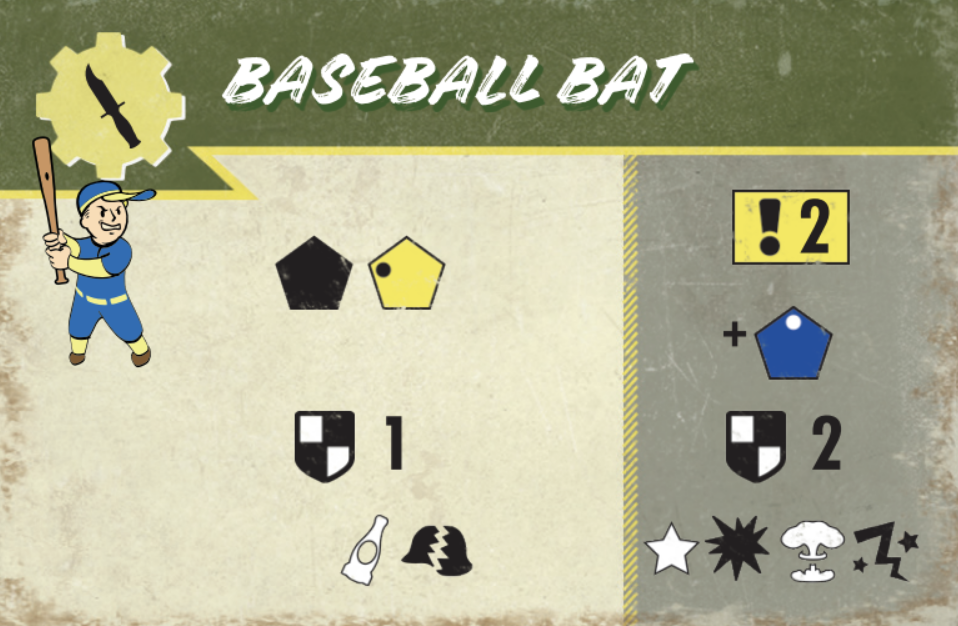
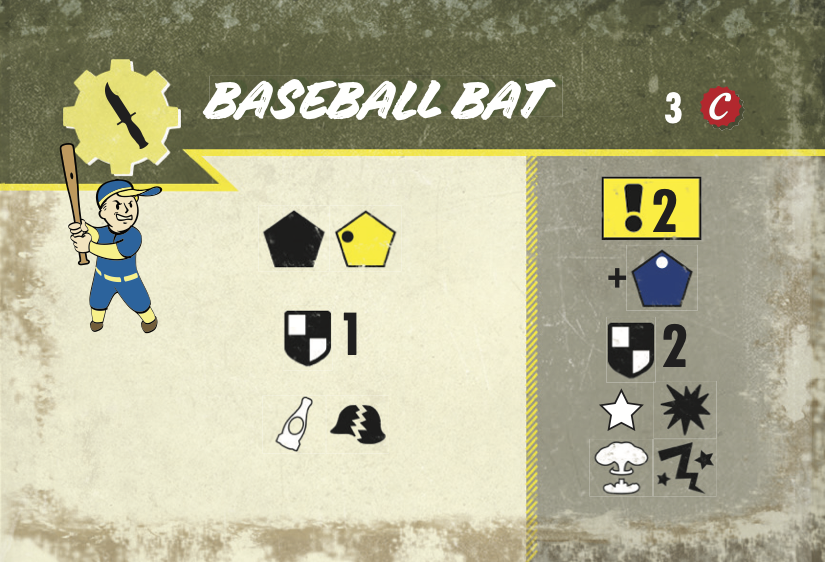
Scorched wave units and upgrades

diff --git a/builder.js b/builder.js
@@ -42,6 +42,7 @@ var possibleFilters = [
 	"rbt",
 	"mut",
 	"slg",
+	"sch",
 	"srv",
 	"ztn"
 ]
@@ -65,6 +66,7 @@ var factionReferences = {
 	"mut":"reference_supermutants",
 	"slg":"reference_slog",
 	"srv":"reference_survivors",
+	"sch":"reference_scorched",
 	"pak":"reference_the_pack",
 	"dis":"reference_the_disciples",
 	"opr":"reference_the_operators",
@@ -2033,6 +2035,7 @@ function updateCaps(){
 			|| characterTemplate.tags.indexOf("robot")>= 0 
 			|| characterTemplate.tags.indexOf("synth")>= 0
 			|| characterTemplate.tags.indexOf("legendary")>= 0
+			|| characterTemplate.tags.indexOf("scorched")>= 0
 			|| characterTemplate.tags.indexOf("armored")>= 0 ))
 			{
 				armorSources++;
